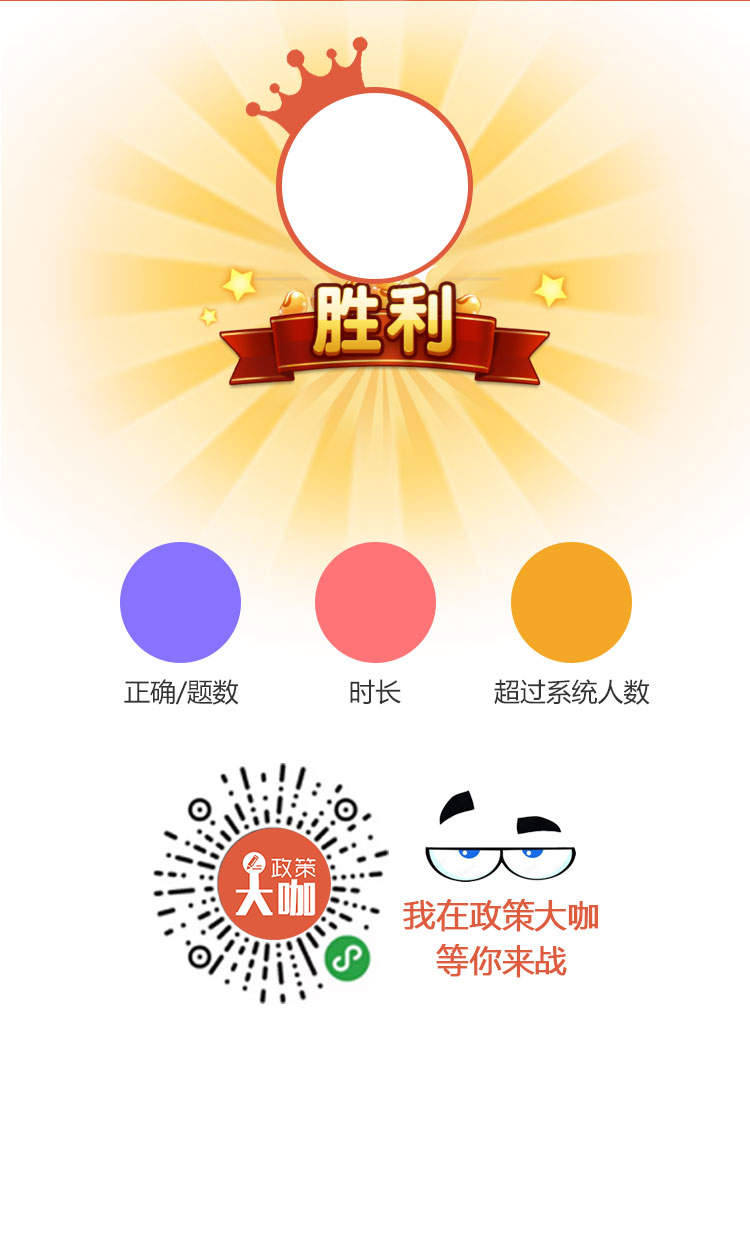
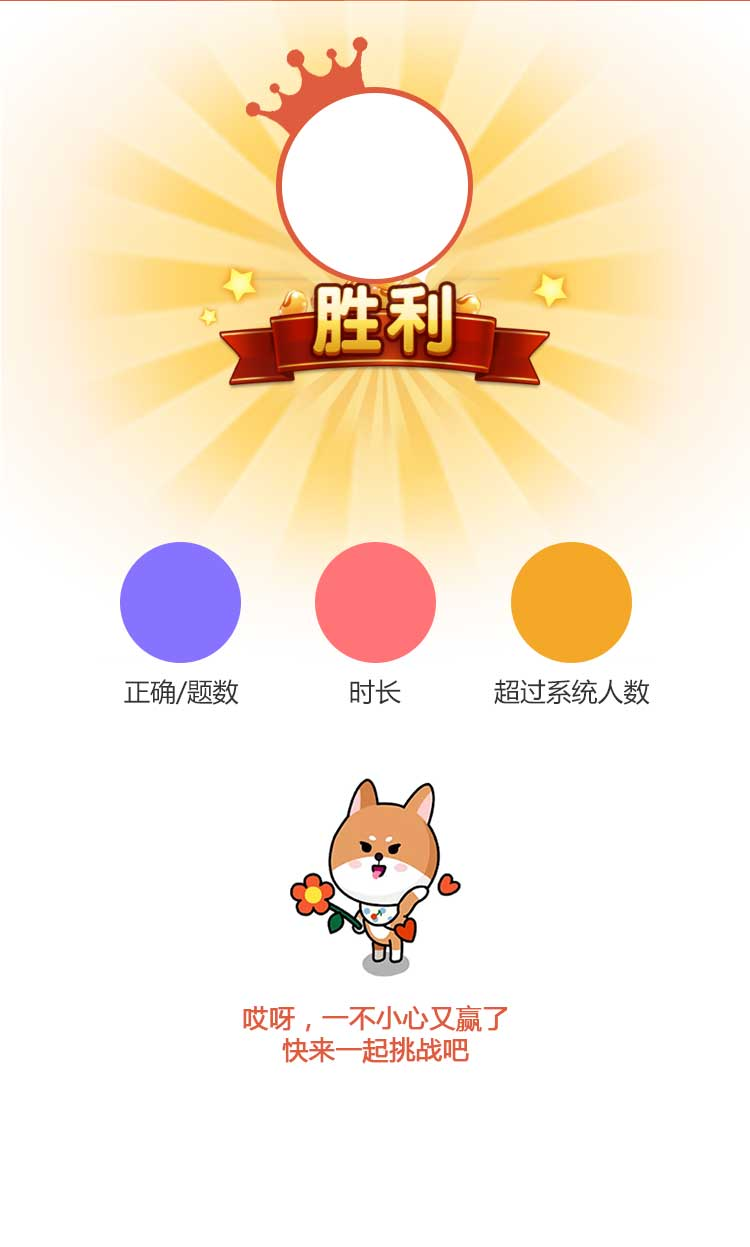
成绩单

Changed region(s): [[0.2147, 0.6095, 0.7973, 0.8532]]

diff --git a/src/pages/report/report.vue b/src/pages/report/report.vue
@@ -16,7 +16,8 @@
             <a @click="canvase">保存到相册</a>
           </div>
           <div class="btn_box" v-if="!isusershow">
-            <a @click="backindex">返回首页</a>
+            <!--<a @click="backindex">返回首页</a>-->
+            <a @click="backindex">我来挑战</a>
           </div>
         </div>
       </div>
@@ -41,7 +42,7 @@
               let thiz = this
               thiz.isshow=true
               const ctx = wx.createCanvasContext('report')
-              ctx.drawImage('../../static/img/bgchengjidan.jpg', 0, 0, thiz.width, 1247*thiz.width/750)
+              ctx.drawImage('../../static/img/bgchengjidanbc.jpg', 0, 0, thiz.width, 1247*thiz.width/750)
               ctx.setFontSize(35*thiz.width/750)
               ctx.setFillStyle('#333333')
               ctx.setTextAlign('center')
@@ -56,9 +57,9 @@
               ctx.setFillStyle('#ffffff')
               ctx.setTextAlign('center')
               ctx.setTextBaseline('top')
-              ctx.fillText(`${thiz.records.right_step}/${thiz.records.max_step}`, 180*thiz.width/750, 571*thiz.width/750)
-              ctx.fillText(thiz.records.times, 375*thiz.width/750, 571*thiz.width/750)
-              ctx.fillText(thiz.records.percentage, 570*thiz.width/750, 571*thiz.width/750)
+              ctx.fillText(`${thiz.records.right_step}/${thiz.records.max_step}`, 180*thiz.width/750, 585*thiz.width/750)//571=>585
+              ctx.fillText(thiz.records.times, 375*thiz.width/750, 585*thiz.width/750)
+              ctx.fillText(thiz.records.percentage, 570*thiz.width/750, 585*thiz.width/750)
               wx.downloadFile({
                 url: thiz.records.avatar_url,
                 success: function(res) {
@@ -209,7 +210,7 @@
           height: 37px/2;
           box-sizing: border-box;
           padding: 0 16%;
-          margin-top: 96px/2;
+          margin-top: 110px/2;//96
           display: flex;
           align-items: center;
           justify-content: space-between;
@@ -222,7 +223,7 @@
           }
         }
         .btn_box{
-          margin-top:466px/2;
+          margin-top:490px/2;
           width: 100%;
           box-sizing: border-box;
           padding: 0 8%;
